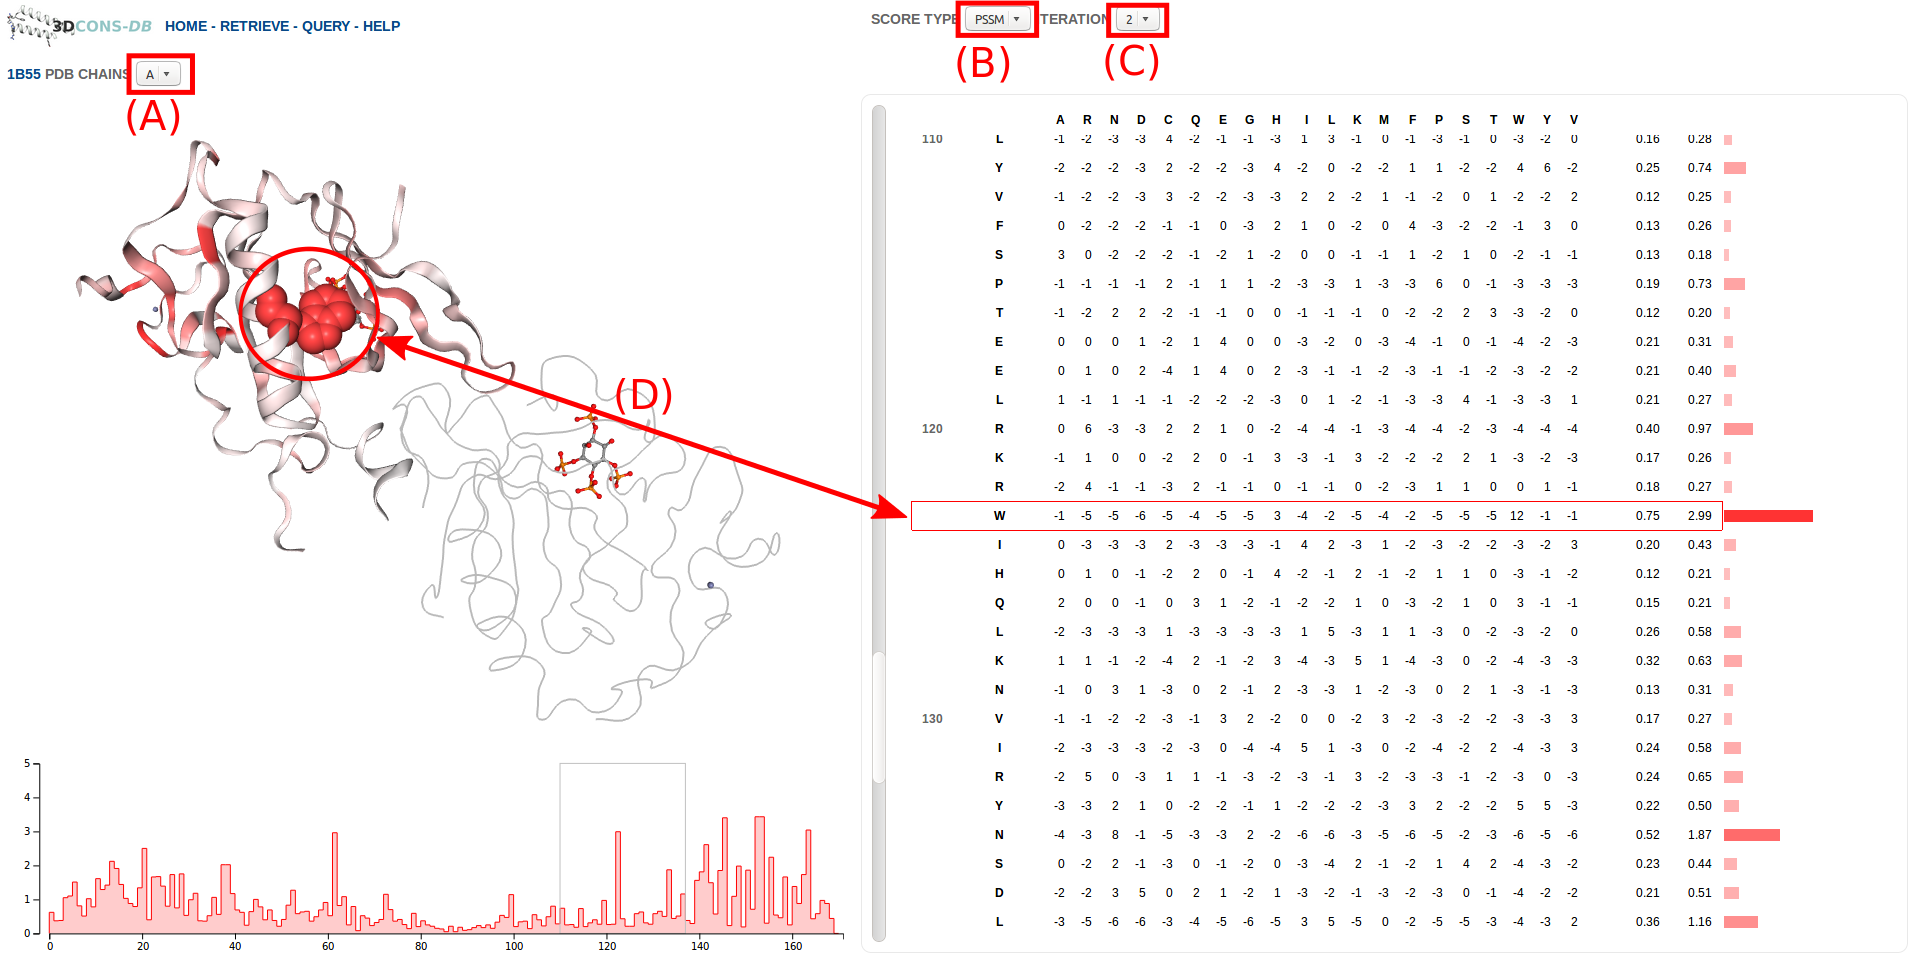
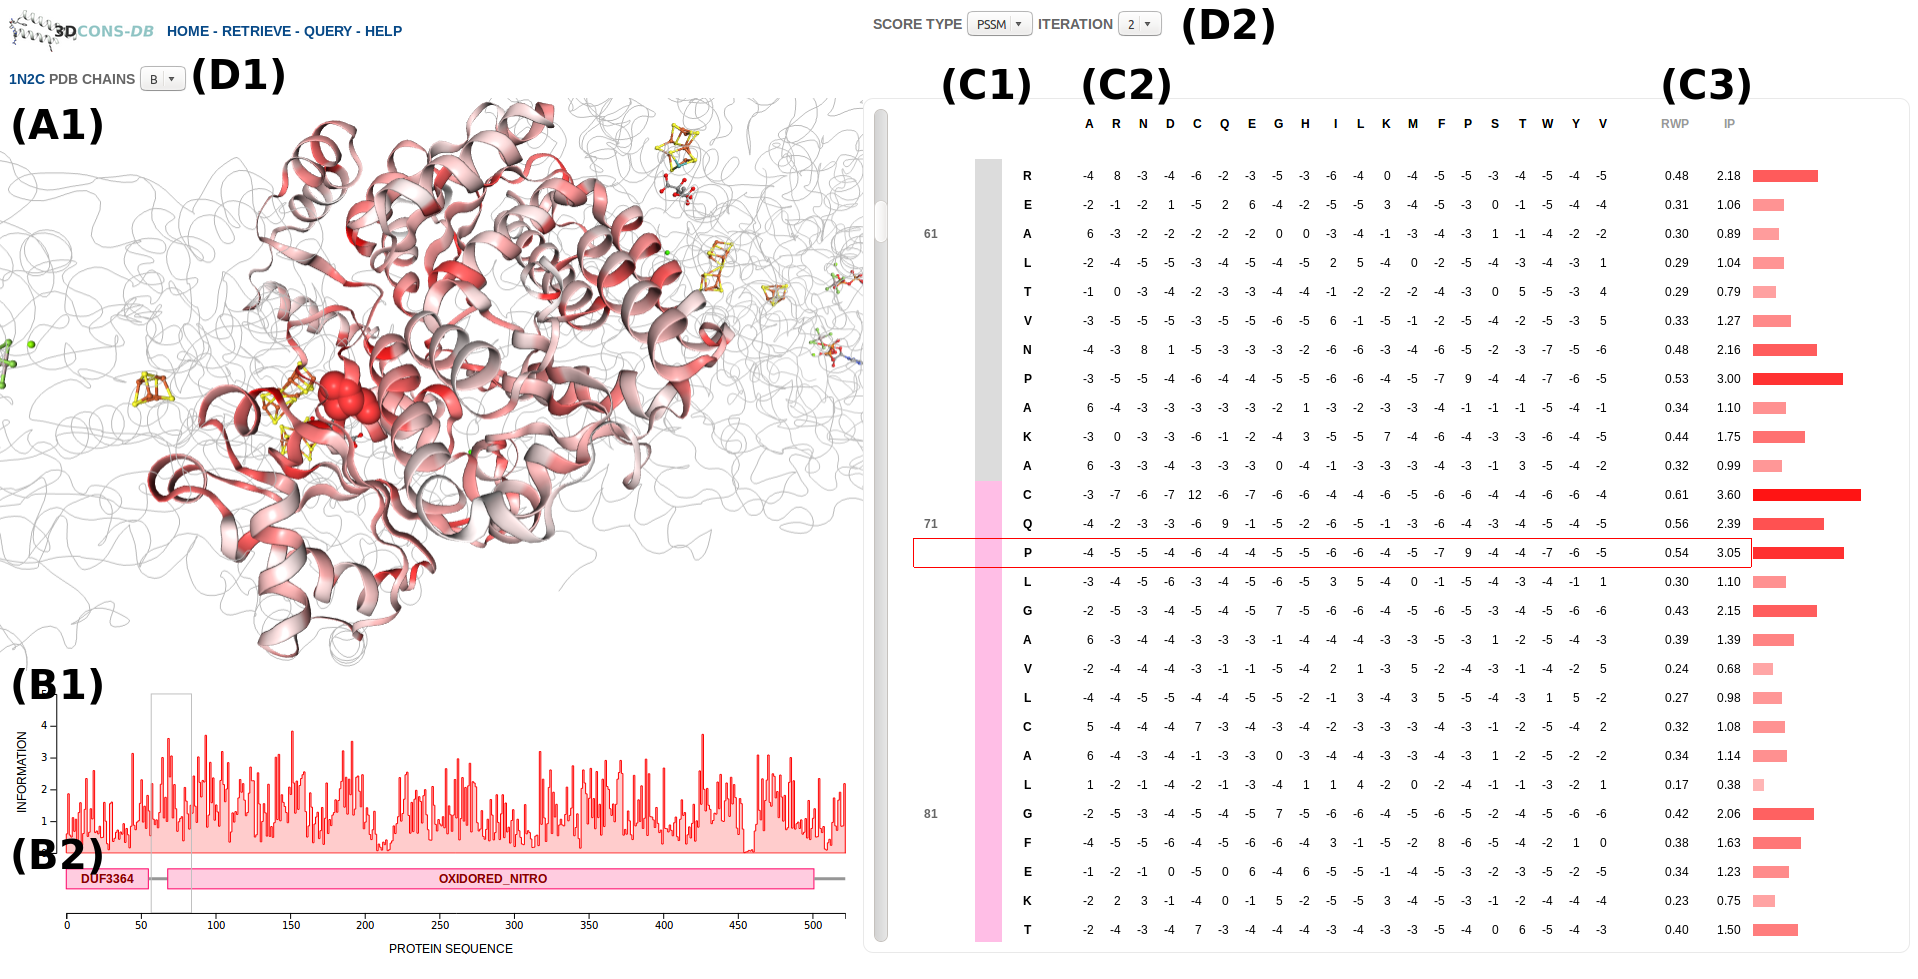
database format to uni90

diff --git a/app/assets/javascripts/cons_viewer/cons_viewer.js b/app/assets/javascripts/cons_viewer/cons_viewer.js
@@ -1,4 +1,4 @@
-var svg, x_scale;
+var svg, x_scale, box_width, seq_len;
 
 
 function cons_viewer(){
@@ -15,7 +15,7 @@ function cons_viewer(){
   dataArray.push({x:dataArray.length,y:0});
   
   
-  var box_width = Math.round(  ($j("#pssm_viewport").height()-50)/29 );
+  box_width = Math.round(  ($j("#pssm_viewport").height()-50)/29 );
 
   d3.select("#cons_viewport").html("");
   svg = d3.select("#cons_viewport").append("svg").attr("height","100%").attr("width","100%");     
@@ -23,11 +23,12 @@ function cons_viewer(){
   var width = parseInt(svg.style("width")); 
   var height = parseInt(svg.style("height"));
 
-  var a = 20;
-  var b = 35;
+  var a = 40;
+  var b = 50;
 
-  var x = d3.scaleLinear().domain([0,dataArray.length]).range([0, width-b]);
+  var x = d3.scaleLinear().domain([0,dataArray.length-2]).range([0, width-b]);
   x_scale = x;
+  seq_len = dataArray.length-2;
   var y = d3.scaleLinear().domain([0,5]).range([height-60,a+5]);
   
   var curve = d3.line()
@@ -53,14 +54,30 @@ function cons_viewer(){
 
   g.attr("transform", "translate("+b+","+(-1*a)+")");
 
+  var g = svg.append("text")
+    .attr("x",width*0.45)
+    .attr("y",height)
+    .style("font-family","Verdana,Arial,Helvetica,sans-serif")
+    .style("font-size","12px")
+    .style("fill","#000000")
+    .text( "PROTEIN SEQUENCE" );
+
+  var g = svg.append("text")
+    .attr("x",10)
+    .attr("y",height*0.47)
+    .attr("transform","rotate(-90 "+10+" "+height*0.47+")")
+    .style("font-family","Verdana,Arial,Helvetica,sans-serif")
+    .style("font-size","12px")
+    .style("fill","#000000")
+    .text( "INFORMATION" );
+
   
   var DOM = globals.dom[ current_ch ]
   var prev_end = 0;
   if(DOM){
     _.sortBy(DOM, function(d) {return parseFloat(d.begin)} ).forEach(function(d){
-      console.log(d);
       var begin = globals.mapping[current_ch].inverse[d.begin];
-      var end = globals.mapping[current_ch].inverse[d.end];
+      var end = globals.mapping[current_ch].inverse[d.end]+1;
       var width = end-begin;
       if(prev_end<begin){
         var g = svg.append("line")
@@ -87,18 +104,32 @@ function cons_viewer(){
         window.open("http://pfam.xfam.org/family/"+d.id); 
       });
       g.append("title").text(d.desc)
-      g.attr("transform", "translate("+b+","+(-1*a)+")");   
+      g.attr("transform", "translate("+b+","+(-1*a)+")");
+      var dx = 0.5*x(width)-2.5*x(d.name.length);
+      if(dx<0){
+        dx = 1;
+      }
       var g = svg.append("text")
-        .attr("x",x(begin+0.5*width))
-        .attr("y",y(-0.4))
-        .text(d.name);
+        .attr("x",x(begin)+dx)
+        .attr("y",y(-0.95))
+        .style("font-family","Verdana,Arial,Helvetica,sans-serif")
+        .style("font-size","12px")
+        .style("font-weight","bold")
+        .style("fill","#880000")
+        .style("cursor","pointer")
+        .text( d.name.toUpperCase() );
+      g.on("click",function(){
+        window.open("http://pfam.xfam.org/family/"+d.id); 
+      });
+      g.append("title").text(d.desc)
+      g.attr("transform", "translate("+b+","+(-1*a)+")");
     });
   }
 
-  if( prev_end < dataArray.length ){
+  if( prev_end < dataArray.length-2 ){
       var g = svg.append("line")
         .attr("x1",x(prev_end+0.2))
-        .attr("x2",x(dataArray.length-0.2))
+        .attr("x2",x(dataArray.length-2))
         .attr("y1",y(-0.5)+10)
         .attr("y2",y(-0.5)+10)
         .style("stroke-width","3px")
@@ -124,7 +155,7 @@ function cons_viewer(){
 
   svg.append("g")
       .attr("class", "axis")
-      .attr("transform", "translate("+25+","+(-1*a)+")")
+      .attr("transform", "translate("+(b-10)+","+(-1*a)+")")
       .call(d3.axisLeft(y).ticks(5));
 
   update_cons();
@@ -132,6 +163,10 @@ function cons_viewer(){
 
 
 function update_cons(){
-  var x = Math.round( $j("#pssm_viewport").scrollTop()/29  );
-  svg.selectAll("#svg_window").attr( "x",x_scale(x) );
+  var max_wx = $j("#pssm_viewport")[0].scrollTopMax;
+  var Y = x_scale(seq_len-box_width);
+  var wx = $j("#pssm_viewport").scrollTop();
+
+  var x = wx*Y/max_wx;
+  svg.selectAll("#svg_window").attr( "x",x );
 }

diff --git a/app/assets/javascripts/pssm_viewer/pssmClass.js b/app/assets/javascripts/pssm_viewer/pssmClass.js
@@ -46,26 +46,28 @@ function pssmClass( args ){
       var c2 = 255-c;
       if(c2>200)c2=200;
       var color = "background:rgb(255,"+c2+","+c2+")";
+
       var cons  = "<div class=\"cons_val\" style=\""+color+";height:12px;width:"+w+"px;\"></div>";
       var dom_cell_class = "";
       var dom_cell_content = "";
       if( self.is_domain(i,chain) ){
         dom_cell_class=" is_domain";
       }else{
-        dom_cell_content = "<div><div class=\"non_domain\">&nbsp;</div></div>";
+        //dom_cell_content = "<div><div class=\"non_domain\">&nbsp;</div></div>";
+        dom_cell_class=" is_non_domain";
       }
       var V = self._.flatten(["<td><span>"+aa['res_id']+"</span></td>", "<td class=\"dom_cell"+dom_cell_class+"\">"+dom_cell_content+"</td>","<td>"+aa['aa']+"</td>", row, "<td>"+aa['b']+"</td>", "<td>"+aa['a']+"</td>","<td>"+cons+"</td>"])
       return "<tr title=\"RES ID "+aa['res_id']+"&#013;SEQ ID "+aa['index']+"\" index=\""+aa['index']+"\">"+V.join("")+"</tr>";
     });
 
-    var head = [" ","A","R","N","D","C","Q","E","G","H","I","L","K","M","F","P","S","T","W","Y","V"];
+    var head = ["A","R","N","D","C","Q","E","G","H","I","L","K","M","F","P","S","T","W","Y","V"];
     head = self._.map(head,function(i){
         return "<td>"+i+"</td>";
     });
     var w = parseInt(5*30);
     var cons  = "<div class=\"cons_val\" style=\"background:white;height:12px;width:"+w+"px;\"></div>";
-    var H = self._.flatten(["<td>"+"&nbsp;"+"</td>", "<td>"+"&nbsp;"+"</td>",head, "<td>"+"&nbsp;"+"</td>", "<td>"+"&nbsp;"+"</td>","<td>"+cons+"</td>"]);
-    var table_head ="<table class=\"pssm_table\"><tr>"+H.join("")+"</tr></table>";
+    var H = self._.flatten(["<td>"+"&nbsp;"+"</td>", "<td>"+"&nbsp;"+"</td>","<td>"+"&nbsp;"+"</td>",head, "<td>"+"<span title=\"Relative weight of gapless real matches to pseudocounts\" style=\"cursor:help;color:#999999;\">RWP</span>"+"</td>", "<td>"+"<span title=\"Information per position\" style=\"cursor:help;color:#999999;padding-right:6px;\">IP</span>"+"</td>","<td>"+cons+"</td>"]);
+    var table_head ="<div style=\"height:50px;position:fixed;z-index:10000;background:white;\"><table class=\"pssm_table\"><tr>"+H.join("")+"</tr></table></div>";
     var table = "<table class=\"pssm_table\">"+tbody.join("")+"</table>";
     self.$j('#'+self.eid).html( table_head+table );
     self.$j("table.pssm_table tr").click(function(){

diff --git a/app/assets/stylesheets/pssm_viewer/pssmClass.css b/app/assets/stylesheets/pssm_viewer/pssmClass.css
@@ -21,12 +21,6 @@ table.pssm_table:first-child tr:hover{
   cursor:auto;
 }
 
-table.pssm_table:first-child{
-  position:fixed;
-  background:white;
-  z-index:1000000;
-}
-
 table.pssm_table:first-child tr td {
   font-weight:bold;
 }
@@ -42,12 +36,25 @@ table.pssm_table tr td.is_domain{
   border-bottom: 1px solid rgb(255,190,230);
 }
 
+table.pssm_table tr td.is_non_domain{
+  background-color:rgb(220,220,220);
+  border-top: 1px solid rgb(220,220,220);
+  border-bottom: 1px solid rgb(220,220,220);
+}
+
+
 table.pssm_table tr td div{
+  position:absolute;
+}
+
+table.pssm_table tr td div.cons_val{
   width: 5px;
   margin: auto;
-  position:absolute;
   height:29px;
+  position:relative;
+  float:left;
 }
+
 
 table.pssm_table tr td div div.non_domain{
   background-color:rgb(155,155,155);

diff --git a/app/controllers/web_controller.rb b/app/controllers/web_controller.rb
@@ -1,8 +1,8 @@
 class WebController < ApplicationController
-  PDB_PSSM_PATH = "/home/joan/databases/pdb_pssm/"
+  PDB_PSSM_PATH = "/services/pdb_pssm/databases/pdb_pssm/"
   PDB_PSSM_ZIP = PDB_PSSM_PATH+"pdbOut.zip"
   PDB_PSSM_DB = PDB_PSSM_PATH+"pdb_pssm.db"
-  PDB_PSSM_PATH_CAMPINS = "/home/jsegura/databases/pdb_pssm/"
+  PDB_PSSM_PATH_CAMPINS = "/services/pdb_pssm/databases/pdb_pssm/"
 
   require 'zip'
   require 'rubygems/package'
@@ -52,7 +52,7 @@ class WebController < ApplicationController
       db.execute( "select * from pdbsTable where pdb=\"#{p[0]}\""+ch_ ) do |r|
         pdb_to_id[ p[0] ][ r[1] ] = { 'seq_id'=>r[2] }
         pdb_to_id[ p[0] ][ r[1] ]['statuts'] = {}
-        db.execute( "select stepNum,status from pdbChainIterStatus where pdb=\"#{p[0]}\" and chain=\"#{r[1]}\";" ) do |s|
+        db.execute( "select stepNum,status_uniref100 from pdbChainIterStatus where pdb=\"#{p[0]}\" and chain=\"#{r[1]}\";" ) do |s|
           pdb_to_id[ p[0] ][ r[1] ]['statuts'][s[0]] = s[1]
         end
         flag = 0
@@ -67,11 +67,13 @@ class WebController < ApplicationController
     end
 
     file_string = ""
+    file_array = []
     pdb_to_id.each do |p,x|
       x.each do |c,y|
         [2,3].each do |i|
           if pdb_to_id[ p ][ c ]['statuts'][i] == 0
             file_string += "pssm/"+p+"_"+c+"_"+i.to_s+".pssm.zip\\n" 
+            file_array.push( "pssm/"+p+"_"+c+"_"+i.to_s+".pssm.zip\\n" )
           elsif !pdb_to_id[ p ][ c ]['statuts'][i].nil?
             puts  pdb_to_id[ p ][ c ]['statuts'][i]
             failed_files += p+"_"+c+"_"+i.to_s+".pssm\n"
@@ -81,9 +83,17 @@ class WebController < ApplicationController
       end
     end
     file_string = file_string.chop.chop
-    
-    cmd = "cd "+PDB_PSSM_PATH+" && printf \""+failed_files+"\" > pssm/errorlog.txt && printf \"pssm/errorlog.txt\\n"+file_string+"\" | zip -@ -r - && rm pssm/errorlog.txt"
-    binary_data = `#{cmd}`
+
+    if file_array.length > 5000
+      file_string = file_array[0..4999].join("")
+      file_string = file_string.chop.chop
+      cmd = "cd "+PDB_PSSM_PATH+" && echo \"Too many files. Only 5000 files were compiled\" > pssm/errorlog.txt && printf \""+failed_files+"\" >> pssm/errorlog.txt && printf \"pssm/errorlog.txt\\n"+file_string+"\" | zip -@ -r - && rm pssm/errorlog.txt"
+      binary_data = `#{cmd}`     
+    else
+      cmd = "cd "+PDB_PSSM_PATH+" && printf \""+failed_files+"\" > pssm/errorlog.txt && printf \"pssm/errorlog.txt\\n"+file_string+"\" | zip -@ -r - && rm pssm/errorlog.txt"
+      puts(cmd)
+      binary_data = `#{cmd}`
+    end
 
     cookies[:download_start] = true
     send_data(binary_data, :type => 'application/zip', :filename => "pssm_files.zip")

diff --git a/app/controllers/pssm_json_controller.rb b/app/controllers/pssm_json_controller.rb
@@ -2,11 +2,11 @@ class PssmJsonController < ApplicationController
 
   require 'net/http'
 
-  PDB_PSSM_PATH = "/home/joan/databases/pdb_pssm/"
+  PDB_PSSM_PATH = "/services/pdb_pssm/databases/pdb_pssm/"
   PDB_PSSM_ZIP = PDB_PSSM_PATH+"pdbOut.zip"
   PDB_PSSM_DB = PDB_PSSM_PATH+"pdb_pssm.db" 
   EBI_RES_LISTING_URL = "https://www.ebi.ac.uk/pdbe/api/pdb/entry/residue_listing/"
-  PDB_PSSM_PATH_CAMPINS = "/home/jsegura/databases/pdb_pssm/"
+  PDB_PSSM_PATH_CAMPINS = "/services/pdb_pssm/databases/pdb_pssm/"
 
   def pssm_ch_rest
     pdb = params[:pdb].downcase
@@ -19,7 +19,7 @@ class PssmJsonController < ApplicationController
       pdb_description[ r[1] ] = []
       statuts = [0,0]
       #db.execute( "select stepNum,status from pssmsTableUniref100 where seqId = #{r[2]};" ) do |s|
-      db.execute( "select stepNum,status from pdbChainIterStatus where pdb=\"#{pdb.downcase}\" and chain=\"#{chain}\";" ) do |s|
+      db.execute( "select stepNum,status_uniref100 from pdbChainIterStatus where pdb=\"#{pdb.downcase}\" and chain=\"#{chain}\";" ) do |s|
         statuts[ s[0]-2 ] = s[1]
       end
       if statuts[0] == 0
@@ -49,7 +49,7 @@ class PssmJsonController < ApplicationController
     db.execute( "select * from pdbsTable where pdb=\"#{pdb.downcase}\";" ) do |r|
       pdb_description[ r[1] ] = []
       statuts = [0,0]
-      db.execute( "select stepNum,status from pdbChainIterStatus where pdb=\"#{pdb.downcase}\" and chain=\"#{r[1]}\";" ) do |s|
+      db.execute( "select stepNum,status_uniref100 from pdbChainIterStatus where pdb=\"#{pdb.downcase}\" and chain=\"#{r[1]}\";" ) do |s|
         statuts[ s[0]-2 ] = s[1]
       end
       if statuts[0] == 0
@@ -71,7 +71,7 @@ class PssmJsonController < ApplicationController
   end
 
   def get_pssm(pdb,ch,n)
-    cmd = "unzip -p "+PDB_PSSM_PATH+"/compressed/"+pdb+"_"+ch+"_"+n+".pssm.zip"
+    cmd = "unzip -p "+PDB_PSSM_PATH+"/pssm/"+pdb+"_"+ch+"_"+n+".pssm.zip"
     file = `#{cmd}`
     out_res = []
     out_scores = []

diff --git a/app/controllers/main_controller.rb b/app/controllers/main_controller.rb
@@ -2,11 +2,11 @@ class MainController < ApplicationController
 
   require 'net/http'
 
-  PDB_PSSM_PATH = "/home/joan/databases/pdb_pssm/"
+  PDB_PSSM_PATH = "/services/pdb_pssm/databases/pdb_pssm/"
   PDB_PSSM_ZIP = PDB_PSSM_PATH+"pdbOut.zip"
   PDB_PSSM_DB = PDB_PSSM_PATH+"pdb_pssm.db" 
   EBI_RES_LISTING_URL = "https://www.ebi.ac.uk/pdbe/api/pdb/entry/residue_listing/"
-  PDB_PSSM_PATH_CAMPINS = "/home/jsegura/databases/pdb_pssm/"
+  PDB_PSSM_PATH_CAMPINS = "/services/pdb_pssm/databases/pdb_pssm/"
 
   def main_frame
     @pdb = params[:pdb].downcase
@@ -22,7 +22,7 @@ class MainController < ApplicationController
         pdb_description[ r[1] ]['seq'] = s[0]
       end
       pdb_description[ r[1] ]['status'] = [0,0]
-      db.execute( "select stepNum,status from pdbChainIterStatus where pdb=\"#{@pdb.downcase}\" and chain=\"#{r[1]}\";" ) do |s|
+      db.execute( "select stepNum,status_uniref100 from pdbChainIterStatus where pdb=\"#{@pdb.downcase}\" and chain=\"#{r[1]}\";" ) do |s|
         pdb_description[ r[1] ]['status'][ s[0]-2 ] = s[1]
       end
       pdb_description[ r[1] ][ 'scores' ] = [nil,nil]
@@ -39,7 +39,7 @@ class MainController < ApplicationController
   end
   
   def get_pssm(pdb,chain,n)
-    cmd = "unzip -p "+PDB_PSSM_PATH+"/compressed/"+pdb+"_"+chain+"_"+n+".pssm.zip"
+    cmd = "unzip -p "+PDB_PSSM_PATH+"/pssm/"+pdb+"_"+chain+"_"+n+".pssm.zip"
     file = `#{cmd}` 
     out = [] 
     index = 1
